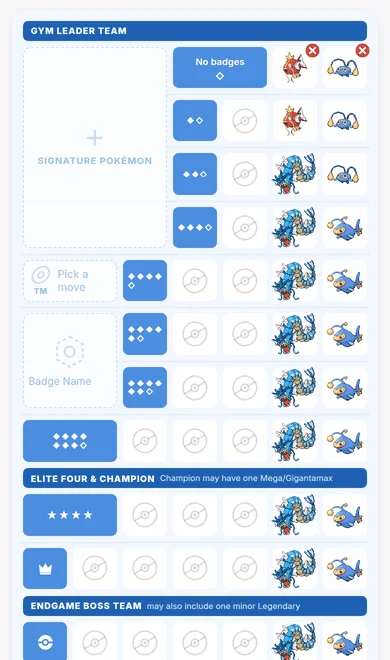
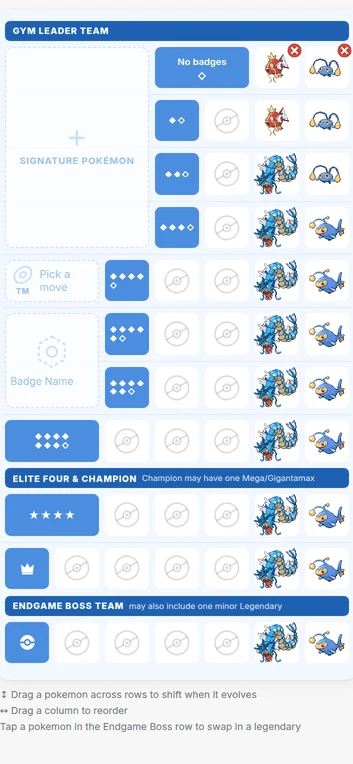
docs: tall screenshots, one card scaled across breakpoints
Screenshots are re-cropped to a real phone viewport, 390x844, so they
read tall and narrow. They are sized by width and take their height from
the image, so the crop is the only way to change that shape.

The gradient again has to finish before the artwork breaches the card's
left edge, or its hard left edge cuts across a screenshot that carries
on past it. That check is back, and it is what caps the left overhang at
about 10px on a 166px card: a wider overhang pushes the crossing lower
and squeezes the gradient. The third screenshot per tool is gone with
the three-screenshot fan, so its images go too.

The card is now described once, in cardScale(), as ratios of its own
width. A breakpoint picks a scale. Desktop is therefore the mobile card
enlarged rather than a differently proportioned one, which is what
removes the extra red beside its screenshots.

The fourth card uses the app's own lucide Hammer, in white, sized and
placed to sit wholly inside the red.

Desktop keeps 29% of the space below the app header clear at the top and
the bottom. 33% does not fit: the hero and the card block need about
400px of the 850px available, and 33% leaves 289px. The canvas note
records the two levers.

diff --git a/docs/future-tools/home-page/canvas/PosterDesktop.dc.html b/docs/future-tools/home-page/canvas/PosterDesktop.dc.html
@@ -25,71 +25,68 @@
       <span style="display: flex; align-items: center; justify-content: center; width: 32px; height: 32px;"><svg width="18" height="18" viewBox="0 0 24 24" fill="none" stroke="#737373" stroke-width="1.8" stroke-linecap="round" stroke-linejoin="round"><circle cx="12" cy="12" r="10"></circle><path d="M2 12h20"></path><path d="M12 2a15.3 15.3 0 0 1 4 10 15.3 15.3 0 0 1-4 10 15.3 15.3 0 0 1-4-10A15.3 15.3 0 0 1 12 2Z"></path></svg></span>
     </nav>
   </header>
-<div style="flex-grow: 1; min-height: 0; display: flex; flex-direction: column; justify-content: space-between; padding: 170px 0;">
+<div style="flex-grow: 1; min-height: 0; display: flex; flex-direction: column; justify-content: space-between; padding: 246px 0;">
 <section style="flex-grow: 1; min-height: 0; display: flex; flex-direction: column; justify-content: flex-start; padding: 0 80px;">
-    <div style="display: flex; align-items: flex-start; justify-content: space-between; gap: 56px;">
-      <h1 style="margin: 0; max-width: 600px; font-size: 44px; font-weight: 800; letter-spacing: -0.03em; line-height: 1.05; color: #0a0a0a;">Make a custom Pokédex, Gym Leader, and more</h1>
+    <div style="display: flex; align-items: flex-start; justify-content: space-between; gap: 40px;">
+      <h1 style="margin: 0; max-width: 660px; font-size: 42px; font-weight: 800; letter-spacing: -0.03em; line-height: 1.05; color: #0a0a0a;">Make a custom Pokédex, Gym Leader, and more</h1>
       <div style="display: flex; flex-direction: column; gap: 10px; max-width: 520px;">
         <p style="margin: 0; font-size: 15.5px; line-height: 1.5; color: #525252; text-wrap: pretty;">my151 is a set of free Pokémon tools and templates. Build a custom region &amp; Pokédex by choosing your favorites from each generation, make custom gym leader trainer cards, &amp; pick your favorite Pokémon per type per generation.</p>
         <p style="margin: 0; font-size: 14.5px; line-height: 1.5; color: #737373;">No account. Your picks save in this browser and can export as a shareable image.</p>
       </div>
     </div>
   </section>
-<div style="flex-shrink: 0; display: grid; grid-template-columns: repeat(4, minmax(0, 1fr)); grid-template-rows: repeat(1, 115px); column-gap: 72px; row-gap: 122px; padding: 102px 80px 0px; box-sizing: border-box;">
-<a href="/custom-pokedex-builder" style="position: relative; display: block; height: 100%; border-radius: 16px; background: #dc2626; border: 1px solid #dc2626; box-shadow: 0 1px 2px rgba(10, 10, 10, 0.06); text-decoration: none;">
-  <div style="position: absolute; top: -102px; left: -52px; right: 0; bottom: 0; overflow: hidden;">
-    <div style="position: absolute; left: 34px; top: 53px; width: 190px; transform: rotate(-8deg); transform-origin: 0 0; border-radius: 17px; overflow: hidden; background: #ffffff; border: 1px solid #d4d4d4; box-shadow: 0 14px 30px rgba(10, 10, 10, 0.24), 0 3px 8px rgba(10, 10, 10, 0.12);">
+<div style="flex-shrink: 0; display: grid; grid-template-columns: repeat(4, minmax(0, 1fr)); grid-template-rows: repeat(1, 140px); column-gap: 67px; row-gap: 130px; padding: 110px 170px 0px; box-sizing: border-box;">
+<a href="/custom-pokedex-builder" style="position: relative; display: block; height: 100%; border-radius: 19px; background: #dc2626; border: 1px solid #dc2626; box-shadow: 0 1px 2px rgba(10, 10, 10, 0.06); text-decoration: none;">
+  <div style="position: absolute; top: -110px; left: -47px; right: 0; bottom: 0; overflow: hidden;">
+    <div style="position: absolute; left: 34px; top: 53px; width: 157px; transform: rotate(-8deg); transform-origin: 0 0; border-radius: 14px; overflow: hidden; background: #ffffff; border: 1px solid #d4d4d4; box-shadow: 0 14px 30px rgba(10, 10, 10, 0.24), 0 3px 8px rgba(10, 10, 10, 0.12);">
       <img src="tool-dex-b.webp" alt="Custom Pokédex Builder screenshot" style="display: block; width: 100%;">
     </div>
-    <div style="position: absolute; left: 62px; top: 46px; width: 190px; transform: rotate(-3deg); transform-origin: 0 0; border-radius: 17px; overflow: hidden; background: #ffffff; border: 1px solid #d4d4d4; box-shadow: 0 14px 30px rgba(10, 10, 10, 0.24), 0 3px 8px rgba(10, 10, 10, 0.12);">
+    <div style="position: absolute; left: 56px; top: 45px; width: 157px; transform: rotate(-3deg); transform-origin: 0 0; border-radius: 14px; overflow: hidden; background: #ffffff; border: 1px solid #d4d4d4; box-shadow: 0 14px 30px rgba(10, 10, 10, 0.24), 0 3px 8px rgba(10, 10, 10, 0.12);">
       <img src="tool-dex.webp" alt="Custom Pokédex Builder screenshot" style="display: block; width: 100%;">
     </div>
   </div>
-  <div style="position: absolute; left: 0; right: 0; bottom: 0; height: 94px; border-radius: 0 0 15px 15px; background: linear-gradient(to top, rgb(220, 38, 38) 0, rgb(220, 38, 38) 35px, rgba(220, 38, 38, 0.92) 64px, rgba(220, 38, 38, 0) 94px);"></div>
-  <div style="position: absolute; left: 13px; right: 13px; bottom: 13px; display: flex; flex-direction: column; gap: 3px;">
-    <h2 style="margin: 0; font-size: 14.4px; font-weight: 800; letter-spacing: -0.02em; line-height: 1.15; white-space: nowrap; color: #ffffff;">Custom Pokédex Builder</h2>
-    <p style="margin: 0; height: 30px; font-size: 11px; line-height: 1.35; color: rgba(255, 255, 255, 0.86);">Choose your starters, early bug,<br>pseudo, &amp; more from all regions</p>
+  <div style="position: absolute; left: 0; right: 0; bottom: 0; height: 105px; border-radius: 0 0 18px 18px; background: linear-gradient(to top, rgb(220, 38, 38) 0, rgb(220, 38, 38) 39px, rgba(220, 38, 38, 0.92) 70px, rgba(220, 38, 38, 0) 105px);"></div>
+  <div style="position: absolute; left: 9px; right: 9px; bottom: 9px; display: flex; flex-direction: column; gap: 3px;">
+    <h2 style="margin: 0; font-size: 11.3px; font-weight: 800; letter-spacing: -0.02em; line-height: 1.15; white-space: nowrap; color: #ffffff;">Custom Pokédex Builder</h2>
+    <p style="margin: 0; height: 29px; font-size: 10.8px; line-height: 1.35; color: rgba(255, 255, 255, 0.86);">Choose your starters, early bug,<br>pseudo, &amp; more from all regions</p>
   </div>
 </a>
-<a href="/pokemon-league-builder" style="position: relative; display: block; height: 100%; border-radius: 16px; background: #dc2626; border: 1px solid #dc2626; box-shadow: 0 1px 2px rgba(10, 10, 10, 0.06); text-decoration: none;">
-  <div style="position: absolute; top: -102px; left: -52px; right: 0; bottom: 0; overflow: hidden;">
-    <div style="position: absolute; left: 34px; top: 53px; width: 190px; transform: rotate(-8deg); transform-origin: 0 0; border-radius: 17px; overflow: hidden; background: #ffffff; border: 1px solid #d4d4d4; box-shadow: 0 14px 30px rgba(10, 10, 10, 0.24), 0 3px 8px rgba(10, 10, 10, 0.12);">
+<a href="/pokemon-league-builder" style="position: relative; display: block; height: 100%; border-radius: 19px; background: #dc2626; border: 1px solid #dc2626; box-shadow: 0 1px 2px rgba(10, 10, 10, 0.06); text-decoration: none;">
+  <div style="position: absolute; top: -110px; left: -47px; right: 0; bottom: 0; overflow: hidden;">
+    <div style="position: absolute; left: 34px; top: 53px; width: 157px; transform: rotate(-8deg); transform-origin: 0 0; border-radius: 14px; overflow: hidden; background: #ffffff; border: 1px solid #d4d4d4; box-shadow: 0 14px 30px rgba(10, 10, 10, 0.24), 0 3px 8px rgba(10, 10, 10, 0.12);">
       <img src="tool-league-b.webp" alt="Pokémon League Builder screenshot" style="display: block; width: 100%;">
     </div>
-    <div style="position: absolute; left: 62px; top: 46px; width: 190px; transform: rotate(-3deg); transform-origin: 0 0; border-radius: 17px; overflow: hidden; background: #ffffff; border: 1px solid #d4d4d4; box-shadow: 0 14px 30px rgba(10, 10, 10, 0.24), 0 3px 8px rgba(10, 10, 10, 0.12);">
+    <div style="position: absolute; left: 56px; top: 45px; width: 157px; transform: rotate(-3deg); transform-origin: 0 0; border-radius: 14px; overflow: hidden; background: #ffffff; border: 1px solid #d4d4d4; box-shadow: 0 14px 30px rgba(10, 10, 10, 0.24), 0 3px 8px rgba(10, 10, 10, 0.12);">
       <img src="tool-league.webp" alt="Pokémon League Builder screenshot" style="display: block; width: 100%;">
     </div>
   </div>
-  <div style="position: absolute; left: 0; right: 0; bottom: 0; height: 94px; border-radius: 0 0 15px 15px; background: linear-gradient(to top, rgb(220, 38, 38) 0, rgb(220, 38, 38) 35px, rgba(220, 38, 38, 0.92) 64px, rgba(220, 38, 38, 0) 94px);"></div>
-  <div style="position: absolute; left: 13px; right: 13px; bottom: 13px; display: flex; flex-direction: column; gap: 3px;">
-    <h2 style="margin: 0; font-size: 14.4px; font-weight: 800; letter-spacing: -0.02em; line-height: 1.15; white-space: nowrap; color: #ffffff;">Trainer Card &amp; League Builder</h2>
-    <p style="margin: 0; height: 30px; font-size: 11px; line-height: 1.35; color: rgba(255, 255, 255, 0.86);">Design gym leader teams into a<br>league with a champion &amp; boss</p>
+  <div style="position: absolute; left: 0; right: 0; bottom: 0; height: 105px; border-radius: 0 0 18px 18px; background: linear-gradient(to top, rgb(220, 38, 38) 0, rgb(220, 38, 38) 39px, rgba(220, 38, 38, 0.92) 70px, rgba(220, 38, 38, 0) 105px);"></div>
+  <div style="position: absolute; left: 9px; right: 9px; bottom: 9px; display: flex; flex-direction: column; gap: 3px;">
+    <h2 style="margin: 0; font-size: 11.3px; font-weight: 800; letter-spacing: -0.02em; line-height: 1.15; white-space: nowrap; color: #ffffff;">Trainer Card &amp; League Builder</h2>
+    <p style="margin: 0; height: 29px; font-size: 10.8px; line-height: 1.35; color: rgba(255, 255, 255, 0.86);">Design gym leader teams into a<br>league with a champion &amp; boss</p>
   </div>
 </a>
-<a href="/favorite-pokemon-picker" style="position: relative; display: block; height: 100%; border-radius: 16px; background: #dc2626; border: 1px solid #dc2626; box-shadow: 0 1px 2px rgba(10, 10, 10, 0.06); text-decoration: none;">
-  <div style="position: absolute; top: -102px; left: -52px; right: 0; bottom: 0; overflow: hidden;">
-    <div style="position: absolute; left: 34px; top: 53px; width: 190px; transform: rotate(-8deg); transform-origin: 0 0; border-radius: 17px; overflow: hidden; background: #ffffff; border: 1px solid #d4d4d4; box-shadow: 0 14px 30px rgba(10, 10, 10, 0.24), 0 3px 8px rgba(10, 10, 10, 0.12);">
+<a href="/favorite-pokemon-picker" style="position: relative; display: block; height: 100%; border-radius: 19px; background: #dc2626; border: 1px solid #dc2626; box-shadow: 0 1px 2px rgba(10, 10, 10, 0.06); text-decoration: none;">
+  <div style="position: absolute; top: -110px; left: -47px; right: 0; bottom: 0; overflow: hidden;">
+    <div style="position: absolute; left: 34px; top: 53px; width: 157px; transform: rotate(-8deg); transform-origin: 0 0; border-radius: 14px; overflow: hidden; background: #ffffff; border: 1px solid #d4d4d4; box-shadow: 0 14px 30px rgba(10, 10, 10, 0.24), 0 3px 8px rgba(10, 10, 10, 0.12);">
       <img src="tool-fav-b.webp" alt="Favorite Pokémon Picker screenshot" style="display: block; width: 100%;">
     </div>
-    <div style="position: absolute; left: 62px; top: 46px; width: 190px; transform: rotate(-3deg); transform-origin: 0 0; border-radius: 17px; overflow: hidden; background: #ffffff; border: 1px solid #d4d4d4; box-shadow: 0 14px 30px rgba(10, 10, 10, 0.24), 0 3px 8px rgba(10, 10, 10, 0.12);">
+    <div style="position: absolute; left: 56px; top: 45px; width: 157px; transform: rotate(-3deg); transform-origin: 0 0; border-radius: 14px; overflow: hidden; background: #ffffff; border: 1px solid #d4d4d4; box-shadow: 0 14px 30px rgba(10, 10, 10, 0.24), 0 3px 8px rgba(10, 10, 10, 0.12);">
       <img src="tool-fav.webp" alt="Favorite Pokémon Picker screenshot" style="display: block; width: 100%;">
     </div>
   </div>
-  <div style="position: absolute; left: 0; right: 0; bottom: 0; height: 94px; border-radius: 0 0 15px 15px; background: linear-gradient(to top, rgb(220, 38, 38) 0, rgb(220, 38, 38) 35px, rgba(220, 38, 38, 0.92) 64px, rgba(220, 38, 38, 0) 94px);"></div>
-  <div style="position: absolute; left: 13px; right: 13px; bottom: 13px; display: flex; flex-direction: column; gap: 3px;">
-    <h2 style="margin: 0; font-size: 14.4px; font-weight: 800; letter-spacing: -0.02em; line-height: 1.15; white-space: nowrap; color: #ffffff;">Favourite Pokémon Picker</h2>
-    <p style="margin: 0; height: 30px; font-size: 11px; line-height: 1.35; color: rgba(255, 255, 255, 0.86);">Pick your favorite Pokemon<br>per type per generation</p>
+  <div style="position: absolute; left: 0; right: 0; bottom: 0; height: 105px; border-radius: 0 0 18px 18px; background: linear-gradient(to top, rgb(220, 38, 38) 0, rgb(220, 38, 38) 39px, rgba(220, 38, 38, 0.92) 70px, rgba(220, 38, 38, 0) 105px);"></div>
+  <div style="position: absolute; left: 9px; right: 9px; bottom: 9px; display: flex; flex-direction: column; gap: 3px;">
+    <h2 style="margin: 0; font-size: 11.3px; font-weight: 800; letter-spacing: -0.02em; line-height: 1.15; white-space: nowrap; color: #ffffff;">Favourite Pokémon Picker</h2>
+    <p style="margin: 0; height: 29px; font-size: 10.8px; line-height: 1.35; color: rgba(255, 255, 255, 0.86);">Pick your favorite Pokemon<br>per type per generation</p>
   </div>
 </a>
-<a href="#suggest" style="position: relative; display: block; height: 100%; border-radius: 16px; background: #dc2626; border: 1px solid #dc2626; box-shadow: 0 1px 2px rgba(10, 10, 10, 0.06); text-decoration: none;">
-  <div style="position: absolute; top: -37px; left: 0; right: 0; height: 88px; display: flex; align-items: center; justify-content: center;"><svg width="65" height="65" viewBox="-3 -2 30 30" fill="none" stroke="#921616" stroke-width="1.9" stroke-linecap="round" stroke-linejoin="round">
-      <g transform="translate(24 0) scale(-1 1)"><path d="M14.7 6.3a1 1 0 0 0 0 1.4l1.6 1.6a1 1 0 0 0 1.4 0l3.77-3.77a6 6 0 0 1-7.94 7.94l-6.91 6.91a2.12 2.12 0 0 1-3-3l6.91-6.91a6 6 0 0 1 7.94-7.94l-3.76 3.76z"></path></g>
-      <g><path d="m15 12-8.373 8.373a1 1 0 1 1-3-3L12 9"></path><path d="m18 15 4-4"></path><path d="m21.5 11.5-1.914-1.914A2 2 0 0 1 19 8.172V7l-2.26-2.26a6 6 0 0 0-4.202-1.756L9 2.96l.92.82A6.18 6.18 0 0 1 12 8.4V10l2 2h1.172a2 2 0 0 1 1.414.586L18.5 14.5"></path></g>
-    </svg></div>
-  <div style="position: absolute; left: 0; right: 0; bottom: 0; height: 94px; border-radius: 0 0 15px 15px; background: linear-gradient(to top, rgb(220, 38, 38) 0, rgb(220, 38, 38) 35px, rgba(220, 38, 38, 0.92) 64px, rgba(220, 38, 38, 0) 94px);"></div>
-  <div style="position: absolute; left: 13px; right: 13px; bottom: 13px; display: flex; flex-direction: column; gap: 3px;">
-    <h2 style="margin: 0; font-size: 14.4px; font-weight: 800; letter-spacing: -0.02em; line-height: 1.15; white-space: nowrap; color: #ffffff;">What's next?</h2>
-    <p style="margin: 0; height: 30px; font-size: 11px; line-height: 1.35; color: rgba(255, 255, 255, 0.86);">Give us feedback, or<br>tell us what to build next</p>
+<a href="#suggest" style="position: relative; display: block; height: 100%; border-radius: 19px; background: #dc2626; border: 1px solid #dc2626; box-shadow: 0 1px 2px rgba(10, 10, 10, 0.06); text-decoration: none;">
+  <div style="position: absolute; top: 0; left: 0; right: 0; height: 101px; display: flex; align-items: center; justify-content: center;"><svg width="64" height="64" viewBox="0 0 24 24" fill="none" stroke="#ffffff" stroke-width="1.9" stroke-linecap="round" stroke-linejoin="round"><path d="m15 12-8.373 8.373a1 1 0 1 1-3-3L12 9"></path><path d="m18 15 4-4"></path><path d="m21.5 11.5-1.914-1.914A2 2 0 0 1 19 8.172V7l-2.26-2.26a6 6 0 0 0-4.202-1.756L9 2.96l.92.82A6.18 6.18 0 0 1 12 8.4V10l2 2h1.172a2 2 0 0 1 1.414.586L18.5 14.5"></path></svg></div>
+  <div style="position: absolute; left: 0; right: 0; bottom: 0; height: 105px; border-radius: 0 0 18px 18px; background: linear-gradient(to top, rgb(220, 38, 38) 0, rgb(220, 38, 38) 39px, rgba(220, 38, 38, 0.92) 70px, rgba(220, 38, 38, 0) 105px);"></div>
+  <div style="position: absolute; left: 9px; right: 9px; bottom: 9px; display: flex; flex-direction: column; gap: 3px;">
+    <h2 style="margin: 0; font-size: 11.3px; font-weight: 800; letter-spacing: -0.02em; line-height: 1.15; white-space: nowrap; color: #ffffff;">What's next?</h2>
+    <p style="margin: 0; height: 29px; font-size: 10.8px; line-height: 1.35; color: rgba(255, 255, 255, 0.86);">Give us feedback, or<br>tell us what to build next</p>
   </div>
 </a>
 </div>

diff --git a/docs/future-tools/home-page/canvas/PosterTablet.dc.html b/docs/future-tools/home-page/canvas/PosterTablet.dc.html
@@ -31,61 +31,58 @@
     <p style="margin: 0; max-width: 660px; font-size: 15.5px; line-height: 1.45; color: #525252; text-wrap: pretty;">my151 is a set of free Pokémon tools and templates. Build a custom region &amp; Pokédex by choosing your favorites from each generation, make custom gym leader trainer cards, &amp; pick your favorite Pokémon per type per generation.</p>
     <p style="margin: 0; max-width: 660px; font-size: 14.5px; line-height: 1.45; color: #737373;">No account. Your picks save in this browser and can export as a shareable image.</p>
   </section>
-<div style="flex-shrink: 0; display: grid; grid-template-columns: repeat(2, minmax(0, 1fr)); grid-template-rows: repeat(2, 148px); column-gap: 75px; row-gap: 139px; padding: 124px 32px 32px; box-sizing: border-box;">
-<a href="/custom-pokedex-builder" style="position: relative; display: block; height: 100%; border-radius: 18px; background: #dc2626; border: 1px solid #dc2626; box-shadow: 0 1px 2px rgba(10, 10, 10, 0.06); text-decoration: none;">
-  <div style="position: absolute; top: -121px; left: -57px; right: 0; bottom: 0; overflow: hidden;">
-    <div style="position: absolute; left: 34px; top: 57px; width: 236px; transform: rotate(-8deg); transform-origin: 0 0; border-radius: 21px; overflow: hidden; background: #ffffff; border: 1px solid #d4d4d4; box-shadow: 0 14px 30px rgba(10, 10, 10, 0.24), 0 3px 8px rgba(10, 10, 10, 0.12);">
+<div style="flex-shrink: 0; display: grid; grid-template-columns: repeat(2, minmax(0, 1fr)); grid-template-rows: repeat(2, 198px); column-gap: 70px; row-gap: 158px; padding: 140px 66px 32px; box-sizing: border-box;">
+<a href="/custom-pokedex-builder" style="position: relative; display: block; height: 100%; border-radius: 27px; background: #dc2626; border: 1px solid #dc2626; box-shadow: 0 1px 2px rgba(10, 10, 10, 0.06); text-decoration: none;">
+  <div style="position: absolute; top: -140px; left: -52px; right: 0; bottom: 0; overflow: hidden;">
+    <div style="position: absolute; left: 34px; top: 60px; width: 220px; transform: rotate(-8deg); transform-origin: 0 0; border-radius: 20px; overflow: hidden; background: #ffffff; border: 1px solid #d4d4d4; box-shadow: 0 14px 30px rgba(10, 10, 10, 0.24), 0 3px 8px rgba(10, 10, 10, 0.12);">
       <img src="tool-dex-b.webp" alt="Custom Pokédex Builder screenshot" style="display: block; width: 100%;">
     </div>
-    <div style="position: absolute; left: 70px; top: 48px; width: 236px; transform: rotate(-3deg); transform-origin: 0 0; border-radius: 21px; overflow: hidden; background: #ffffff; border: 1px solid #d4d4d4; box-shadow: 0 14px 30px rgba(10, 10, 10, 0.24), 0 3px 8px rgba(10, 10, 10, 0.12);">
+    <div style="position: absolute; left: 64px; top: 49px; width: 220px; transform: rotate(-3deg); transform-origin: 0 0; border-radius: 20px; overflow: hidden; background: #ffffff; border: 1px solid #d4d4d4; box-shadow: 0 14px 30px rgba(10, 10, 10, 0.24), 0 3px 8px rgba(10, 10, 10, 0.12);">
       <img src="tool-dex.webp" alt="Custom Pokédex Builder screenshot" style="display: block; width: 100%;">
     </div>
   </div>
-  <div style="position: absolute; left: 0; right: 0; bottom: 0; height: 112px; border-radius: 0 0 17px 17px; background: linear-gradient(to top, rgb(220, 38, 38) 0, rgb(220, 38, 38) 42px, rgba(220, 38, 38, 0.92) 76px, rgba(220, 38, 38, 0) 112px);"></div>
-  <div style="position: absolute; left: 15px; right: 15px; bottom: 15px; display: flex; flex-direction: column; gap: 3px;">
-    <h2 style="margin: 0; font-size: 18px; font-weight: 800; letter-spacing: -0.02em; line-height: 1.15; white-space: nowrap; color: #ffffff;">Custom Pokédex Builder</h2>
-    <p style="margin: 0; height: 35px; font-size: 13px; line-height: 1.35; color: rgba(255, 255, 255, 0.86);">Choose your starters, early bug,<br>pseudo, &amp; more from all regions</p>
+  <div style="position: absolute; left: 0; right: 0; bottom: 0; height: 148px; border-radius: 0 0 26px 26px; background: linear-gradient(to top, rgb(220, 38, 38) 0, rgb(220, 38, 38) 54px, rgba(220, 38, 38, 0.92) 99px, rgba(220, 38, 38, 0) 148px);"></div>
+  <div style="position: absolute; left: 13px; right: 13px; bottom: 13px; display: flex; flex-direction: column; gap: 3px;">
+    <h2 style="margin: 0; font-size: 16px; font-weight: 800; letter-spacing: -0.02em; line-height: 1.15; white-space: nowrap; color: #ffffff;">Custom Pokédex Builder</h2>
+    <p style="margin: 0; height: 41px; font-size: 15.2px; line-height: 1.35; color: rgba(255, 255, 255, 0.86);">Choose your starters, early bug,<br>pseudo, &amp; more from all regions</p>
   </div>
 </a>
-<a href="/pokemon-league-builder" style="position: relative; display: block; height: 100%; border-radius: 18px; background: #dc2626; border: 1px solid #dc2626; box-shadow: 0 1px 2px rgba(10, 10, 10, 0.06); text-decoration: none;">
-  <div style="position: absolute; top: -121px; left: -57px; right: 0; bottom: 0; overflow: hidden;">
-    <div style="position: absolute; left: 34px; top: 57px; width: 236px; transform: rotate(-8deg); transform-origin: 0 0; border-radius: 21px; overflow: hidden; background: #ffffff; border: 1px solid #d4d4d4; box-shadow: 0 14px 30px rgba(10, 10, 10, 0.24), 0 3px 8px rgba(10, 10, 10, 0.12);">
+<a href="/pokemon-league-builder" style="position: relative; display: block; height: 100%; border-radius: 27px; background: #dc2626; border: 1px solid #dc2626; box-shadow: 0 1px 2px rgba(10, 10, 10, 0.06); text-decoration: none;">
+  <div style="position: absolute; top: -140px; left: -52px; right: 0; bottom: 0; overflow: hidden;">
+    <div style="position: absolute; left: 34px; top: 60px; width: 220px; transform: rotate(-8deg); transform-origin: 0 0; border-radius: 20px; overflow: hidden; background: #ffffff; border: 1px solid #d4d4d4; box-shadow: 0 14px 30px rgba(10, 10, 10, 0.24), 0 3px 8px rgba(10, 10, 10, 0.12);">
       <img src="tool-league-b.webp" alt="Pokémon League Builder screenshot" style="display: block; width: 100%;">
     </div>
-    <div style="position: absolute; left: 70px; top: 48px; width: 236px; transform: rotate(-3deg); transform-origin: 0 0; border-radius: 21px; overflow: hidden; background: #ffffff; border: 1px solid #d4d4d4; box-shadow: 0 14px 30px rgba(10, 10, 10, 0.24), 0 3px 8px rgba(10, 10, 10, 0.12);">
+    <div style="position: absolute; left: 64px; top: 49px; width: 220px; transform: rotate(-3deg); transform-origin: 0 0; border-radius: 20px; overflow: hidden; background: #ffffff; border: 1px solid #d4d4d4; box-shadow: 0 14px 30px rgba(10, 10, 10, 0.24), 0 3px 8px rgba(10, 10, 10, 0.12);">
       <img src="tool-league.webp" alt="Pokémon League Builder screenshot" style="display: block; width: 100%;">
     </div>
   </div>
-  <div style="position: absolute; left: 0; right: 0; bottom: 0; height: 112px; border-radius: 0 0 17px 17px; background: linear-gradient(to top, rgb(220, 38, 38) 0, rgb(220, 38, 38) 42px, rgba(220, 38, 38, 0.92) 76px, rgba(220, 38, 38, 0) 112px);"></div>
-  <div style="position: absolute; left: 15px; right: 15px; bottom: 15px; display: flex; flex-direction: column; gap: 3px;">
-    <h2 style="margin: 0; font-size: 18px; font-weight: 800; letter-spacing: -0.02em; line-height: 1.15; white-space: nowrap; color: #ffffff;">Trainer Card &amp; League Builder</h2>
-    <p style="margin: 0; height: 35px; font-size: 13px; line-height: 1.35; color: rgba(255, 255, 255, 0.86);">Design gym leader teams into a<br>league with a champion &amp; boss</p>
+  <div style="position: absolute; left: 0; right: 0; bottom: 0; height: 148px; border-radius: 0 0 26px 26px; background: linear-gradient(to top, rgb(220, 38, 38) 0, rgb(220, 38, 38) 54px, rgba(220, 38, 38, 0.92) 99px, rgba(220, 38, 38, 0) 148px);"></div>
+  <div style="position: absolute; left: 13px; right: 13px; bottom: 13px; display: flex; flex-direction: column; gap: 3px;">
+    <h2 style="margin: 0; font-size: 16px; font-weight: 800; letter-spacing: -0.02em; line-height: 1.15; white-space: nowrap; color: #ffffff;">Trainer Card &amp; League Builder</h2>
+    <p style="margin: 0; height: 41px; font-size: 15.2px; line-height: 1.35; color: rgba(255, 255, 255, 0.86);">Design gym leader teams into a<br>league with a champion &amp; boss</p>
   </div>
 </a>
-<a href="/favorite-pokemon-picker" style="position: relative; display: block; height: 100%; border-radius: 18px; background: #dc2626; border: 1px solid #dc2626; box-shadow: 0 1px 2px rgba(10, 10, 10, 0.06); text-decoration: none;">
-  <div style="position: absolute; top: -121px; left: -57px; right: 0; bottom: 0; overflow: hidden;">
-    <div style="position: absolute; left: 34px; top: 57px; width: 236px; transform: rotate(-8deg); transform-origin: 0 0; border-radius: 21px; overflow: hidden; background: #ffffff; border: 1px solid #d4d4d4; box-shadow: 0 14px 30px rgba(10, 10, 10, 0.24), 0 3px 8px rgba(10, 10, 10, 0.12);">
+<a href="/favorite-pokemon-picker" style="position: relative; display: block; height: 100%; border-radius: 27px; background: #dc2626; border: 1px solid #dc2626; box-shadow: 0 1px 2px rgba(10, 10, 10, 0.06); text-decoration: none;">
+  <div style="position: absolute; top: -140px; left: -52px; right: 0; bottom: 0; overflow: hidden;">
+    <div style="position: absolute; left: 34px; top: 60px; width: 220px; transform: rotate(-8deg); transform-origin: 0 0; border-radius: 20px; overflow: hidden; background: #ffffff; border: 1px solid #d4d4d4; box-shadow: 0 14px 30px rgba(10, 10, 10, 0.24), 0 3px 8px rgba(10, 10, 10, 0.12);">
       <img src="tool-fav-b.webp" alt="Favorite Pokémon Picker screenshot" style="display: block; width: 100%;">
     </div>
-    <div style="position: absolute; left: 70px; top: 48px; width: 236px; transform: rotate(-3deg); transform-origin: 0 0; border-radius: 21px; overflow: hidden; background: #ffffff; border: 1px solid #d4d4d4; box-shadow: 0 14px 30px rgba(10, 10, 10, 0.24), 0 3px 8px rgba(10, 10, 10, 0.12);">
+    <div style="position: absolute; left: 64px; top: 49px; width: 220px; transform: rotate(-3deg); transform-origin: 0 0; border-radius: 20px; overflow: hidden; background: #ffffff; border: 1px solid #d4d4d4; box-shadow: 0 14px 30px rgba(10, 10, 10, 0.24), 0 3px 8px rgba(10, 10, 10, 0.12);">
       <img src="tool-fav.webp" alt="Favorite Pokémon Picker screenshot" style="display: block; width: 100%;">
     </div>
   </div>
-  <div style="position: absolute; left: 0; right: 0; bottom: 0; height: 112px; border-radius: 0 0 17px 17px; background: linear-gradient(to top, rgb(220, 38, 38) 0, rgb(220, 38, 38) 42px, rgba(220, 38, 38, 0.92) 76px, rgba(220, 38, 38, 0) 112px);"></div>
-  <div style="position: absolute; left: 15px; right: 15px; bottom: 15px; display: flex; flex-direction: column; gap: 3px;">
-    <h2 style="margin: 0; font-size: 18px; font-weight: 800; letter-spacing: -0.02em; line-height: 1.15; white-space: nowrap; color: #ffffff;">Favourite Pokémon Picker</h2>
-    <p style="margin: 0; height: 35px; font-size: 13px; line-height: 1.35; color: rgba(255, 255, 255, 0.86);">Pick your favorite Pokemon<br>per type per generation</p>
+  <div style="position: absolute; left: 0; right: 0; bottom: 0; height: 148px; border-radius: 0 0 26px 26px; background: linear-gradient(to top, rgb(220, 38, 38) 0, rgb(220, 38, 38) 54px, rgba(220, 38, 38, 0.92) 99px, rgba(220, 38, 38, 0) 148px);"></div>
+  <div style="position: absolute; left: 13px; right: 13px; bottom: 13px; display: flex; flex-direction: column; gap: 3px;">
+    <h2 style="margin: 0; font-size: 16px; font-weight: 800; letter-spacing: -0.02em; line-height: 1.15; white-space: nowrap; color: #ffffff;">Favourite Pokémon Picker</h2>
+    <p style="margin: 0; height: 41px; font-size: 15.2px; line-height: 1.35; color: rgba(255, 255, 255, 0.86);">Pick your favorite Pokemon<br>per type per generation</p>
   </div>
 </a>
-<a href="#suggest" style="position: relative; display: block; height: 100%; border-radius: 18px; background: #dc2626; border: 1px solid #dc2626; box-shadow: 0 1px 2px rgba(10, 10, 10, 0.06); text-decoration: none;">
-  <div style="position: absolute; top: -48px; left: 0; right: 0; height: 120px; display: flex; align-items: center; justify-content: center;"><svg width="89" height="89" viewBox="-3 -2 30 30" fill="none" stroke="#921616" stroke-width="1.9" stroke-linecap="round" stroke-linejoin="round">
-      <g transform="translate(24 0) scale(-1 1)"><path d="M14.7 6.3a1 1 0 0 0 0 1.4l1.6 1.6a1 1 0 0 0 1.4 0l3.77-3.77a6 6 0 0 1-7.94 7.94l-6.91 6.91a2.12 2.12 0 0 1-3-3l6.91-6.91a6 6 0 0 1 7.94-7.94l-3.76 3.76z"></path></g>
-      <g><path d="m15 12-8.373 8.373a1 1 0 1 1-3-3L12 9"></path><path d="m18 15 4-4"></path><path d="m21.5 11.5-1.914-1.914A2 2 0 0 1 19 8.172V7l-2.26-2.26a6 6 0 0 0-4.202-1.756L9 2.96l.92.82A6.18 6.18 0 0 1 12 8.4V10l2 2h1.172a2 2 0 0 1 1.414.586L18.5 14.5"></path></g>
-    </svg></div>
-  <div style="position: absolute; left: 0; right: 0; bottom: 0; height: 112px; border-radius: 0 0 17px 17px; background: linear-gradient(to top, rgb(220, 38, 38) 0, rgb(220, 38, 38) 42px, rgba(220, 38, 38, 0.92) 76px, rgba(220, 38, 38, 0) 112px);"></div>
-  <div style="position: absolute; left: 15px; right: 15px; bottom: 15px; display: flex; flex-direction: column; gap: 3px;">
-    <h2 style="margin: 0; font-size: 18px; font-weight: 800; letter-spacing: -0.02em; line-height: 1.15; white-space: nowrap; color: #ffffff;">What's next?</h2>
-    <p style="margin: 0; height: 35px; font-size: 13px; line-height: 1.35; color: rgba(255, 255, 255, 0.86);">Give us feedback, or<br>tell us what to build next</p>
+<a href="#suggest" style="position: relative; display: block; height: 100%; border-radius: 27px; background: #dc2626; border: 1px solid #dc2626; box-shadow: 0 1px 2px rgba(10, 10, 10, 0.06); text-decoration: none;">
+  <div style="position: absolute; top: 0; left: 0; right: 0; height: 144px; display: flex; align-items: center; justify-content: center;"><svg width="91" height="91" viewBox="0 0 24 24" fill="none" stroke="#ffffff" stroke-width="1.9" stroke-linecap="round" stroke-linejoin="round"><path d="m15 12-8.373 8.373a1 1 0 1 1-3-3L12 9"></path><path d="m18 15 4-4"></path><path d="m21.5 11.5-1.914-1.914A2 2 0 0 1 19 8.172V7l-2.26-2.26a6 6 0 0 0-4.202-1.756L9 2.96l.92.82A6.18 6.18 0 0 1 12 8.4V10l2 2h1.172a2 2 0 0 1 1.414.586L18.5 14.5"></path></svg></div>
+  <div style="position: absolute; left: 0; right: 0; bottom: 0; height: 148px; border-radius: 0 0 26px 26px; background: linear-gradient(to top, rgb(220, 38, 38) 0, rgb(220, 38, 38) 54px, rgba(220, 38, 38, 0.92) 99px, rgba(220, 38, 38, 0) 148px);"></div>
+  <div style="position: absolute; left: 13px; right: 13px; bottom: 13px; display: flex; flex-direction: column; gap: 3px;">
+    <h2 style="margin: 0; font-size: 16px; font-weight: 800; letter-spacing: -0.02em; line-height: 1.15; white-space: nowrap; color: #ffffff;">What's next?</h2>
+    <p style="margin: 0; height: 41px; font-size: 15.2px; line-height: 1.35; color: rgba(255, 255, 255, 0.86);">Give us feedback, or<br>tell us what to build next</p>
   </div>
 </a>
 </div>

diff --git a/docs/future-tools/home-page/canvas/PosterMobile.dc.html b/docs/future-tools/home-page/canvas/PosterMobile.dc.html
@@ -26,13 +26,13 @@
     <p style="margin: 0; max-width: 350px; font-size: 12.5px; line-height: 1.45; color: #525252; text-wrap: pretty;">my151 is a set of free Pokémon tools and templates. Build a custom region &amp; Pokédex by choosing your favorites from each generation, make custom gym leader trainer cards, &amp; pick your favorite Pokémon per type per generation.</p>
     <p style="margin: 0; max-width: 350px; font-size: 11.5px; line-height: 1.45; color: #737373;">No account. Your picks save in this browser and can export as a shareable image.</p>
   </section>
-<div style="flex-shrink: 0; display: grid; grid-template-columns: repeat(2, minmax(0, 1fr)); grid-template-rows: repeat(2, 104px); column-gap: 56px; row-gap: 100px; padding: 92px 16px 16px; box-sizing: border-box;">
+<div style="flex-shrink: 0; display: grid; grid-template-columns: repeat(2, minmax(0, 1fr)); grid-template-rows: repeat(2, 104px); column-gap: 54px; row-gap: 100px; padding: 90px 16px 16px; box-sizing: border-box;">
 <a href="/custom-pokedex-builder" style="position: relative; display: block; height: 100%; border-radius: 14px; background: #dc2626; border: 1px solid #dc2626; box-shadow: 0 1px 2px rgba(10, 10, 10, 0.06); text-decoration: none;">
-  <div style="position: absolute; top: -90px; left: -46px; right: 0; bottom: 0; overflow: hidden;">
-    <div style="position: absolute; left: 34px; top: 48px; width: 132px; transform: rotate(-8deg); transform-origin: 0 0; border-radius: 12px; overflow: hidden; background: #ffffff; border: 1px solid #d4d4d4; box-shadow: 0 14px 30px rgba(10, 10, 10, 0.24), 0 3px 8px rgba(10, 10, 10, 0.12);">
+  <div style="position: absolute; top: -90px; left: -44px; right: 0; bottom: 0; overflow: hidden;">
+    <div style="position: absolute; left: 34px; top: 48px; width: 116px; transform: rotate(-8deg); transform-origin: 0 0; border-radius: 10px; overflow: hidden; background: #ffffff; border: 1px solid #d4d4d4; box-shadow: 0 14px 30px rgba(10, 10, 10, 0.24), 0 3px 8px rgba(10, 10, 10, 0.12);">
       <img src="tool-dex-b.webp" alt="Custom Pokédex Builder screenshot" style="display: block; width: 100%;">
     </div>
-    <div style="position: absolute; left: 50px; top: 42px; width: 132px; transform: rotate(-3deg); transform-origin: 0 0; border-radius: 12px; overflow: hidden; background: #ffffff; border: 1px solid #d4d4d4; box-shadow: 0 14px 30px rgba(10, 10, 10, 0.24), 0 3px 8px rgba(10, 10, 10, 0.12);">
+    <div style="position: absolute; left: 50px; top: 42px; width: 116px; transform: rotate(-3deg); transform-origin: 0 0; border-radius: 10px; overflow: hidden; background: #ffffff; border: 1px solid #d4d4d4; box-shadow: 0 14px 30px rgba(10, 10, 10, 0.24), 0 3px 8px rgba(10, 10, 10, 0.12);">
       <img src="tool-dex.webp" alt="Custom Pokédex Builder screenshot" style="display: block; width: 100%;">
     </div>
   </div>
@@ -43,11 +43,11 @@
   </div>
 </a>
 <a href="/pokemon-league-builder" style="position: relative; display: block; height: 100%; border-radius: 14px; background: #dc2626; border: 1px solid #dc2626; box-shadow: 0 1px 2px rgba(10, 10, 10, 0.06); text-decoration: none;">
-  <div style="position: absolute; top: -90px; left: -46px; right: 0; bottom: 0; overflow: hidden;">
-    <div style="position: absolute; left: 34px; top: 48px; width: 132px; transform: rotate(-8deg); transform-origin: 0 0; border-radius: 12px; overflow: hidden; background: #ffffff; border: 1px solid #d4d4d4; box-shadow: 0 14px 30px rgba(10, 10, 10, 0.24), 0 3px 8px rgba(10, 10, 10, 0.12);">
+  <div style="position: absolute; top: -90px; left: -44px; right: 0; bottom: 0; overflow: hidden;">
+    <div style="position: absolute; left: 34px; top: 48px; width: 116px; transform: rotate(-8deg); transform-origin: 0 0; border-radius: 10px; overflow: hidden; background: #ffffff; border: 1px solid #d4d4d4; box-shadow: 0 14px 30px rgba(10, 10, 10, 0.24), 0 3px 8px rgba(10, 10, 10, 0.12);">
       <img src="tool-league-b.webp" alt="Pokémon League Builder screenshot" style="display: block; width: 100%;">
     </div>
-    <div style="position: absolute; left: 50px; top: 42px; width: 132px; transform: rotate(-3deg); transform-origin: 0 0; border-radius: 12px; overflow: hidden; background: #ffffff; border: 1px solid #d4d4d4; box-shadow: 0 14px 30px rgba(10, 10, 10, 0.24), 0 3px 8px rgba(10, 10, 10, 0.12);">
+    <div style="position: absolute; left: 50px; top: 42px; width: 116px; transform: rotate(-3deg); transform-origin: 0 0; border-radius: 10px; overflow: hidden; background: #ffffff; border: 1px solid #d4d4d4; box-shadow: 0 14px 30px rgba(10, 10, 10, 0.24), 0 3px 8px rgba(10, 10, 10, 0.12);">
       <img src="tool-league.webp" alt="Pokémon League Builder screenshot" style="display: block; width: 100%;">
     </div>
   </div>
@@ -58,11 +58,11 @@
   </div>
 </a>
 <a href="/favorite-pokemon-picker" style="position: relative; display: block; height: 100%; border-radius: 14px; background: #dc2626; border: 1px solid #dc2626; box-shadow: 0 1px 2px rgba(10, 10, 10, 0.06); text-decoration: none;">
-  <div style="position: absolute; top: -90px; left: -46px; right: 0; bottom: 0; overflow: hidden;">
-    <div style="position: absolute; left: 34px; top: 48px; width: 132px; transform: rotate(-8deg); transform-origin: 0 0; border-radius: 12px; overflow: hidden; background: #ffffff; border: 1px solid #d4d4d4; box-shadow: 0 14px 30px rgba(10, 10, 10, 0.24), 0 3px 8px rgba(10, 10, 10, 0.12);">
+  <div style="position: absolute; top: -90px; left: -44px; right: 0; bottom: 0; overflow: hidden;">
+    <div style="position: absolute; left: 34px; top: 48px; width: 116px; transform: rotate(-8deg); transform-origin: 0 0; border-radius: 10px; overflow: hidden; background: #ffffff; border: 1px solid #d4d4d4; box-shadow: 0 14px 30px rgba(10, 10, 10, 0.24), 0 3px 8px rgba(10, 10, 10, 0.12);">
       <img src="tool-fav-b.webp" alt="Favorite Pokémon Picker screenshot" style="display: block; width: 100%;">
     </div>
-    <div style="position: absolute; left: 50px; top: 42px; width: 132px; transform: rotate(-3deg); transform-origin: 0 0; border-radius: 12px; overflow: hidden; background: #ffffff; border: 1px solid #d4d4d4; box-shadow: 0 14px 30px rgba(10, 10, 10, 0.24), 0 3px 8px rgba(10, 10, 10, 0.12);">
+    <div style="position: absolute; left: 50px; top: 42px; width: 116px; transform: rotate(-3deg); transform-origin: 0 0; border-radius: 10px; overflow: hidden; background: #ffffff; border: 1px solid #d4d4d4; box-shadow: 0 14px 30px rgba(10, 10, 10, 0.24), 0 3px 8px rgba(10, 10, 10, 0.12);">
       <img src="tool-fav.webp" alt="Favorite Pokémon Picker screenshot" style="display: block; width: 100%;">
     </div>
   </div>
@@ -73,10 +73,7 @@
   </div>
 </a>
 <a href="#suggest" style="position: relative; display: block; height: 100%; border-radius: 14px; background: #dc2626; border: 1px solid #dc2626; box-shadow: 0 1px 2px rgba(10, 10, 10, 0.06); text-decoration: none;">
-  <div style="position: absolute; top: -31px; left: 0; right: 0; height: 83px; display: flex; align-items: center; justify-content: center;"><svg width="61" height="61" viewBox="-3 -2 30 30" fill="none" stroke="#921616" stroke-width="1.9" stroke-linecap="round" stroke-linejoin="round">
-      <g transform="translate(24 0) scale(-1 1)"><path d="M14.7 6.3a1 1 0 0 0 0 1.4l1.6 1.6a1 1 0 0 0 1.4 0l3.77-3.77a6 6 0 0 1-7.94 7.94l-6.91 6.91a2.12 2.12 0 0 1-3-3l6.91-6.91a6 6 0 0 1 7.94-7.94l-3.76 3.76z"></path></g>
-      <g><path d="m15 12-8.373 8.373a1 1 0 1 1-3-3L12 9"></path><path d="m18 15 4-4"></path><path d="m21.5 11.5-1.914-1.914A2 2 0 0 1 19 8.172V7l-2.26-2.26a6 6 0 0 0-4.202-1.756L9 2.96l.92.82A6.18 6.18 0 0 1 12 8.4V10l2 2h1.172a2 2 0 0 1 1.414.586L18.5 14.5"></path></g>
-    </svg></div>
+  <div style="position: absolute; top: 0; left: 0; right: 0; height: 75px; display: flex; align-items: center; justify-content: center;"><svg width="48" height="48" viewBox="0 0 24 24" fill="none" stroke="#ffffff" stroke-width="1.9" stroke-linecap="round" stroke-linejoin="round"><path d="m15 12-8.373 8.373a1 1 0 1 1-3-3L12 9"></path><path d="m18 15 4-4"></path><path d="m21.5 11.5-1.914-1.914A2 2 0 0 1 19 8.172V7l-2.26-2.26a6 6 0 0 0-4.202-1.756L9 2.96l.92.82A6.18 6.18 0 0 1 12 8.4V10l2 2h1.172a2 2 0 0 1 1.414.586L18.5 14.5"></path></svg></div>
   <div style="position: absolute; left: 0; right: 0; bottom: 0; height: 78px; border-radius: 0 0 13px 13px; background: linear-gradient(to top, rgb(220, 38, 38) 0, rgb(220, 38, 38) 29px, rgba(220, 38, 38, 0.92) 52px, rgba(220, 38, 38, 0) 78px);"></div>
   <div style="position: absolute; left: 7px; right: 7px; bottom: 7px; display: flex; flex-direction: column; gap: 3px;">
     <h2 style="margin: 0; font-size: 8.4px; font-weight: 800; letter-spacing: -0.02em; line-height: 1.15; white-space: nowrap; color: #ffffff;">What's next?</h2>
